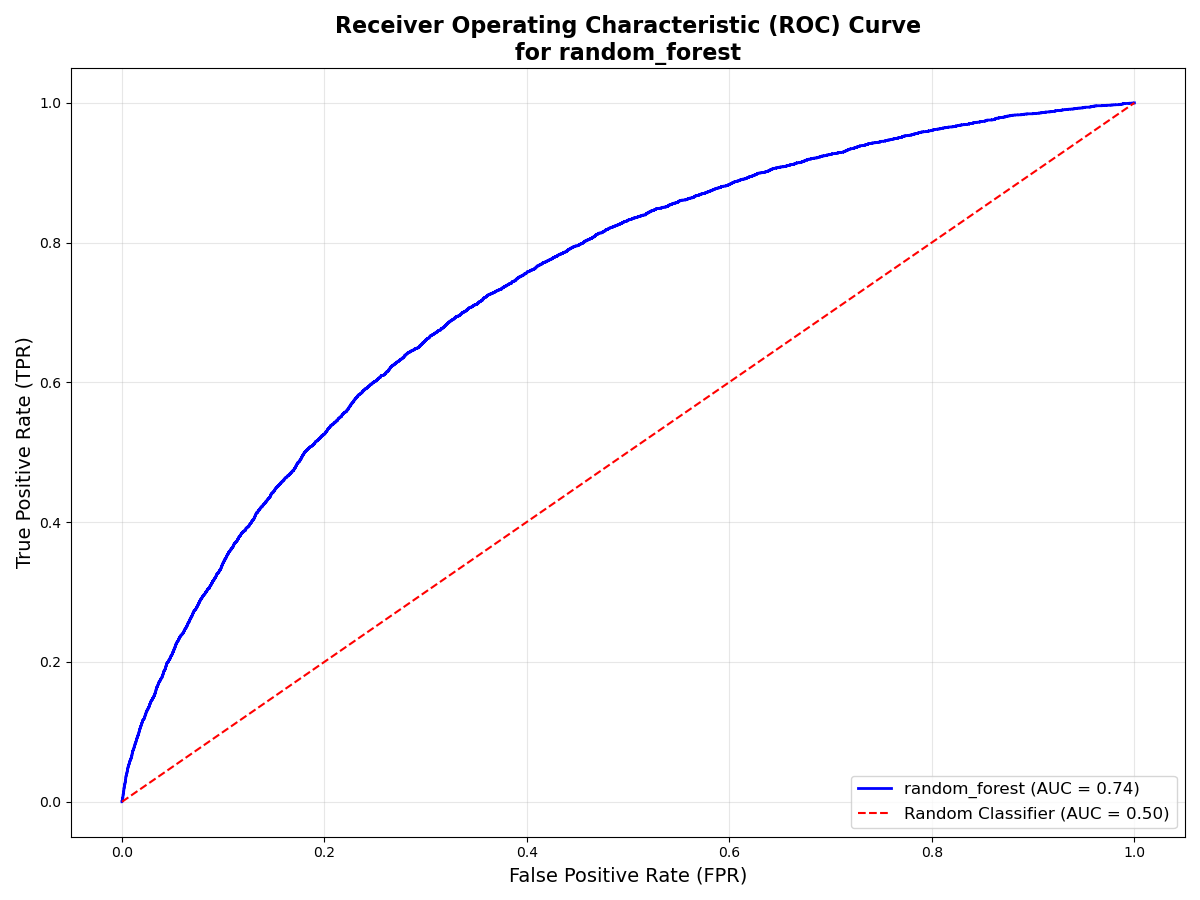
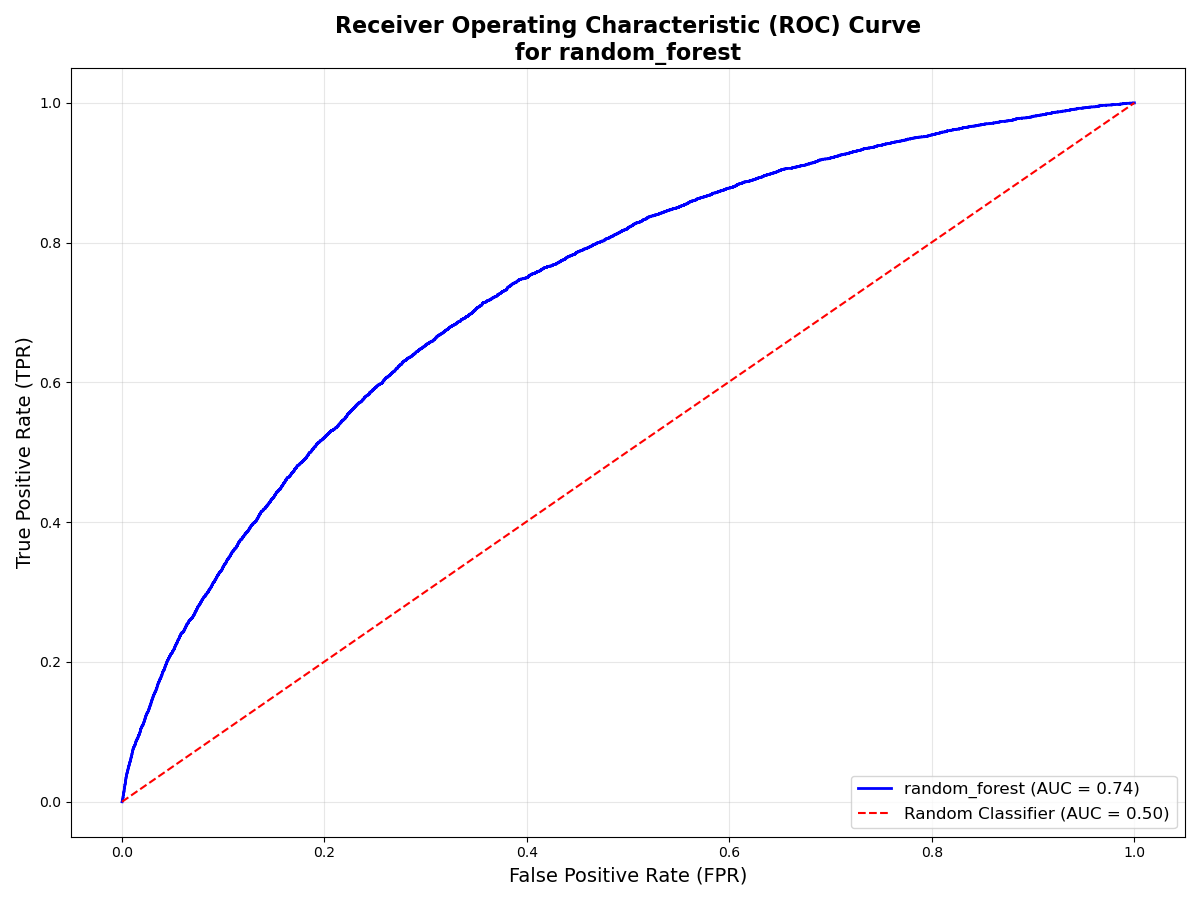
feat: add train_and_test_model to test model and save results

diff --git a/advanced_models/random_forest.py b/advanced_models/random_forest.py
@@ -2,7 +2,7 @@ from sklearn.ensemble import RandomForestClassifier
 from sklearn.pipeline import Pipeline
 import wandb
 
-from model_trainer import train_and_val_model
+from model_trainer import train_and_val_model, train_and_test_model
 from ift6758.features import get_preprocessing_pipeline
 from ift6758.visualizations import four_graphs
 
@@ -45,21 +45,34 @@ def train_and_test_random_forest(n_estimators = 300, max_depth = 12, use_wandb=T
 
 #-----------------------------------------------------
 #-----------------------------------------------------
+# if __name__ == "__main__":
+#     use_wandb = False
+#
+#     n_estimators = [100, 200, 300, 400, 500, 600, 700, 800, 900, 1000]
+#     max_depth = [8, 10, 12, 14, 16, 18, 20]
+#
+#     for n in n_estimators:
+#         for d in max_depth:
+#             model, y_pred, y_proba, y_val = train_and_test_random_forest(n_estimators=n, max_depth=d, use_wandb=use_wandb, close_wandb=False)
+#             four_graphs(y_proba[:, 1], y_val, f"random_forest", save_wandb=use_wandb)
+#             if use_wandb:
+#                 wandb.finish()
+#
+# if __name__ == "__main__":
+#     use_wandb = False
+#
+#     model, y_pred, y_proba, y_val = train_and_test_random_forest(n_estimators=1000, max_depth=18, use_wandb=use_wandb, close_wandb=False)
+#     four_graphs(y_proba[:, 1], y_val, "random_forest", save_wandb=use_wandb)
+#
+#     if use_wandb:
+#         wandb.finish()
+
+
 if __name__ == "__main__":
-    use_wandb = True
-
-    n_estimators = [100, 200, 300, 400, 500, 600, 700, 800, 900, 1000]
-    max_depth = [8, 10, 12, 14, 16, 18, 20]
-
-    for n in n_estimators:
-        for d in max_depth:
-            model, y_pred, y_proba, y_val = train_and_test_random_forest(n_estimators=n, max_depth=d, use_wandb=use_wandb, close_wandb=False)
-            four_graphs(y_proba[:, 1], y_val, f"random_forest", save_wandb=use_wandb)
-            if use_wandb:
-                wandb.finish()
-
-    # model, y_pred, y_proba, y_val = train_and_test_random_forest(n_estimators=1000, max_depth=18, use_wandb=use_wandb, close_wandb=False)
-    # four_graphs(y_proba[:, 1], y_val, "random_forest", save_wandb=use_wandb)
-    #
-    # if use_wandb:
-    #     wandb.finish()
+    train_and_test_model(
+        model=Pipeline([
+            ('preprocessor', get_preprocessing_pipeline()),
+            ('classifier', RandomForestClassifier(n_estimators=1000, max_depth=18, random_state=42, n_jobs=max(1, cpu_count() - 2)))
+        ]),
+        model_slug="random_forest"
+    )

diff --git a/advanced_models/svm.py b/advanced_models/svm.py
@@ -3,7 +3,7 @@ from sklearn.svm import SVC
 from sklearn.pipeline import Pipeline
 import wandb
 
-from model_trainer import train_and_val_model
+from model_trainer import train_and_val_model, train_and_test_model
 from ift6758.features import get_preprocessing_pipeline
 from ift6758.visualizations import four_graphs
 
@@ -45,23 +45,37 @@ def train_and_test_svm(C = 1.0, kernel = "rbf", use_wandb=True, close_wandb=True
 
 #-----------------------------------------------------
 #-----------------------------------------------------
+# if __name__ == "__main__":
+#     use_wandb = True
+#
+#     # C_values = [0.1, 0.2, 0.5, 1.0, 2.0, 5.0, 10.0]
+#     C_values = np.linspace(0.55, 0.95, 10)
+#     # kernel_values = ["linear", "poly", "rbf", "sigmoid"]
+#     kernel_values = ["rbf"]
+#
+#     for c in C_values:
+#         for k in kernel_values:
+#             model, y_pred, y_proba, y_val = train_and_test_svm(C=c, kernel=k, use_wandb=use_wandb, close_wandb=False)
+#             four_graphs(y_proba[:, 1], y_val, f"svm", save_wandb=use_wandb)
+#             if use_wandb:
+#                 wandb.finish()
+
+
+# if __name__ == "__main__":
+#     use_wandb = True
+#
+#     model, y_pred, y_proba, y_val = train_and_test_svm(use_wandb=use_wandb, close_wandb=False)
+#     four_graphs(y_proba[:, 1], y_val, "svm", save_wandb=use_wandb)
+#
+#     if use_wandb:
+#         wandb.finish()
+
+
 if __name__ == "__main__":
-    use_wandb = True
-
-    # C_values = [0.1, 0.2, 0.5, 1.0, 2.0, 5.0, 10.0]
-    C_values = np.linspace(0.55, 0.95, 10)
-    # kernel_values = ["linear", "poly", "rbf", "sigmoid"]
-    kernel_values = ["rbf"]
-
-    for c in C_values:
-        for k in kernel_values:
-            model, y_pred, y_proba, y_val = train_and_test_svm(C=c, kernel=k, use_wandb=use_wandb, close_wandb=False)
-            four_graphs(y_proba[:, 1], y_val, f"svm", save_wandb=use_wandb)
-            if use_wandb:
-                wandb.finish()
-
-    # model, y_pred, y_proba, y_val = train_and_test_svm(use_wandb=use_wandb, close_wandb=False)
-    # four_graphs(y_proba[:, 1], y_val, "svm", save_wandb=use_wandb)
-    #
-    # if use_wandb:
-    #     wandb.finish()
+    train_and_test_model(
+        model=Pipeline([
+            ('preprocessor', get_preprocessing_pipeline()),
+            ('classifier', SVC(C=0.55, kernel="rbf", class_weight=None, max_iter=2000, random_state=42, probability=True))
+        ]),
+        model_slug="svm"
+    )

diff --git a/advanced_models/model_trainer.py b/advanced_models/model_trainer.py
@@ -4,6 +4,7 @@ import numpy as np
 from sklearn.metrics import accuracy_score, roc_auc_score
 import wandb
 import joblib
+import pandas as pd
 
 from ift6758.features import load_train_val_test_x_y
 
@@ -72,6 +73,36 @@ def train_and_val_model(
             wandb.finish()
 
     return model, y_pred, y_proba, y_val
+
+
+def train_and_test_model(
+        model,
+        model_slug: str,
+):
+    # Load the data
+    X_train, y_train, X_val, y_val, X_test, y_test = load_data_from_cache()
+
+    # Join the train and validation sets
+    X_train = pd.concat([X_train, X_val])
+    y_train = pd.concat([y_train, y_val])
+
+    # Train the model
+    model.fit(X_train, y_train)
+
+    # Save the model
+    joblib.dump(model, f"artifacts/{model_slug}.pkl")
+
+    # Evaluate the model
+    y_proba = model.predict_proba(X_test)
+    y_pred = np.argmax(y_proba, axis=1)
+    accuracy = accuracy_score(y_test, y_pred)
+    auc_score = roc_auc_score(y_test, y_proba[:, 1])
+
+    print(f"Accuracy: {accuracy}")
+    print(f"AUC: {auc_score}")
+
+    # Save the results to npz
+    np.savez(f"artifacts/{model_slug}.npz", y_pred_proba=y_proba[:, 1], y_test=y_test)
 
 
 def load_data_from_cache():
